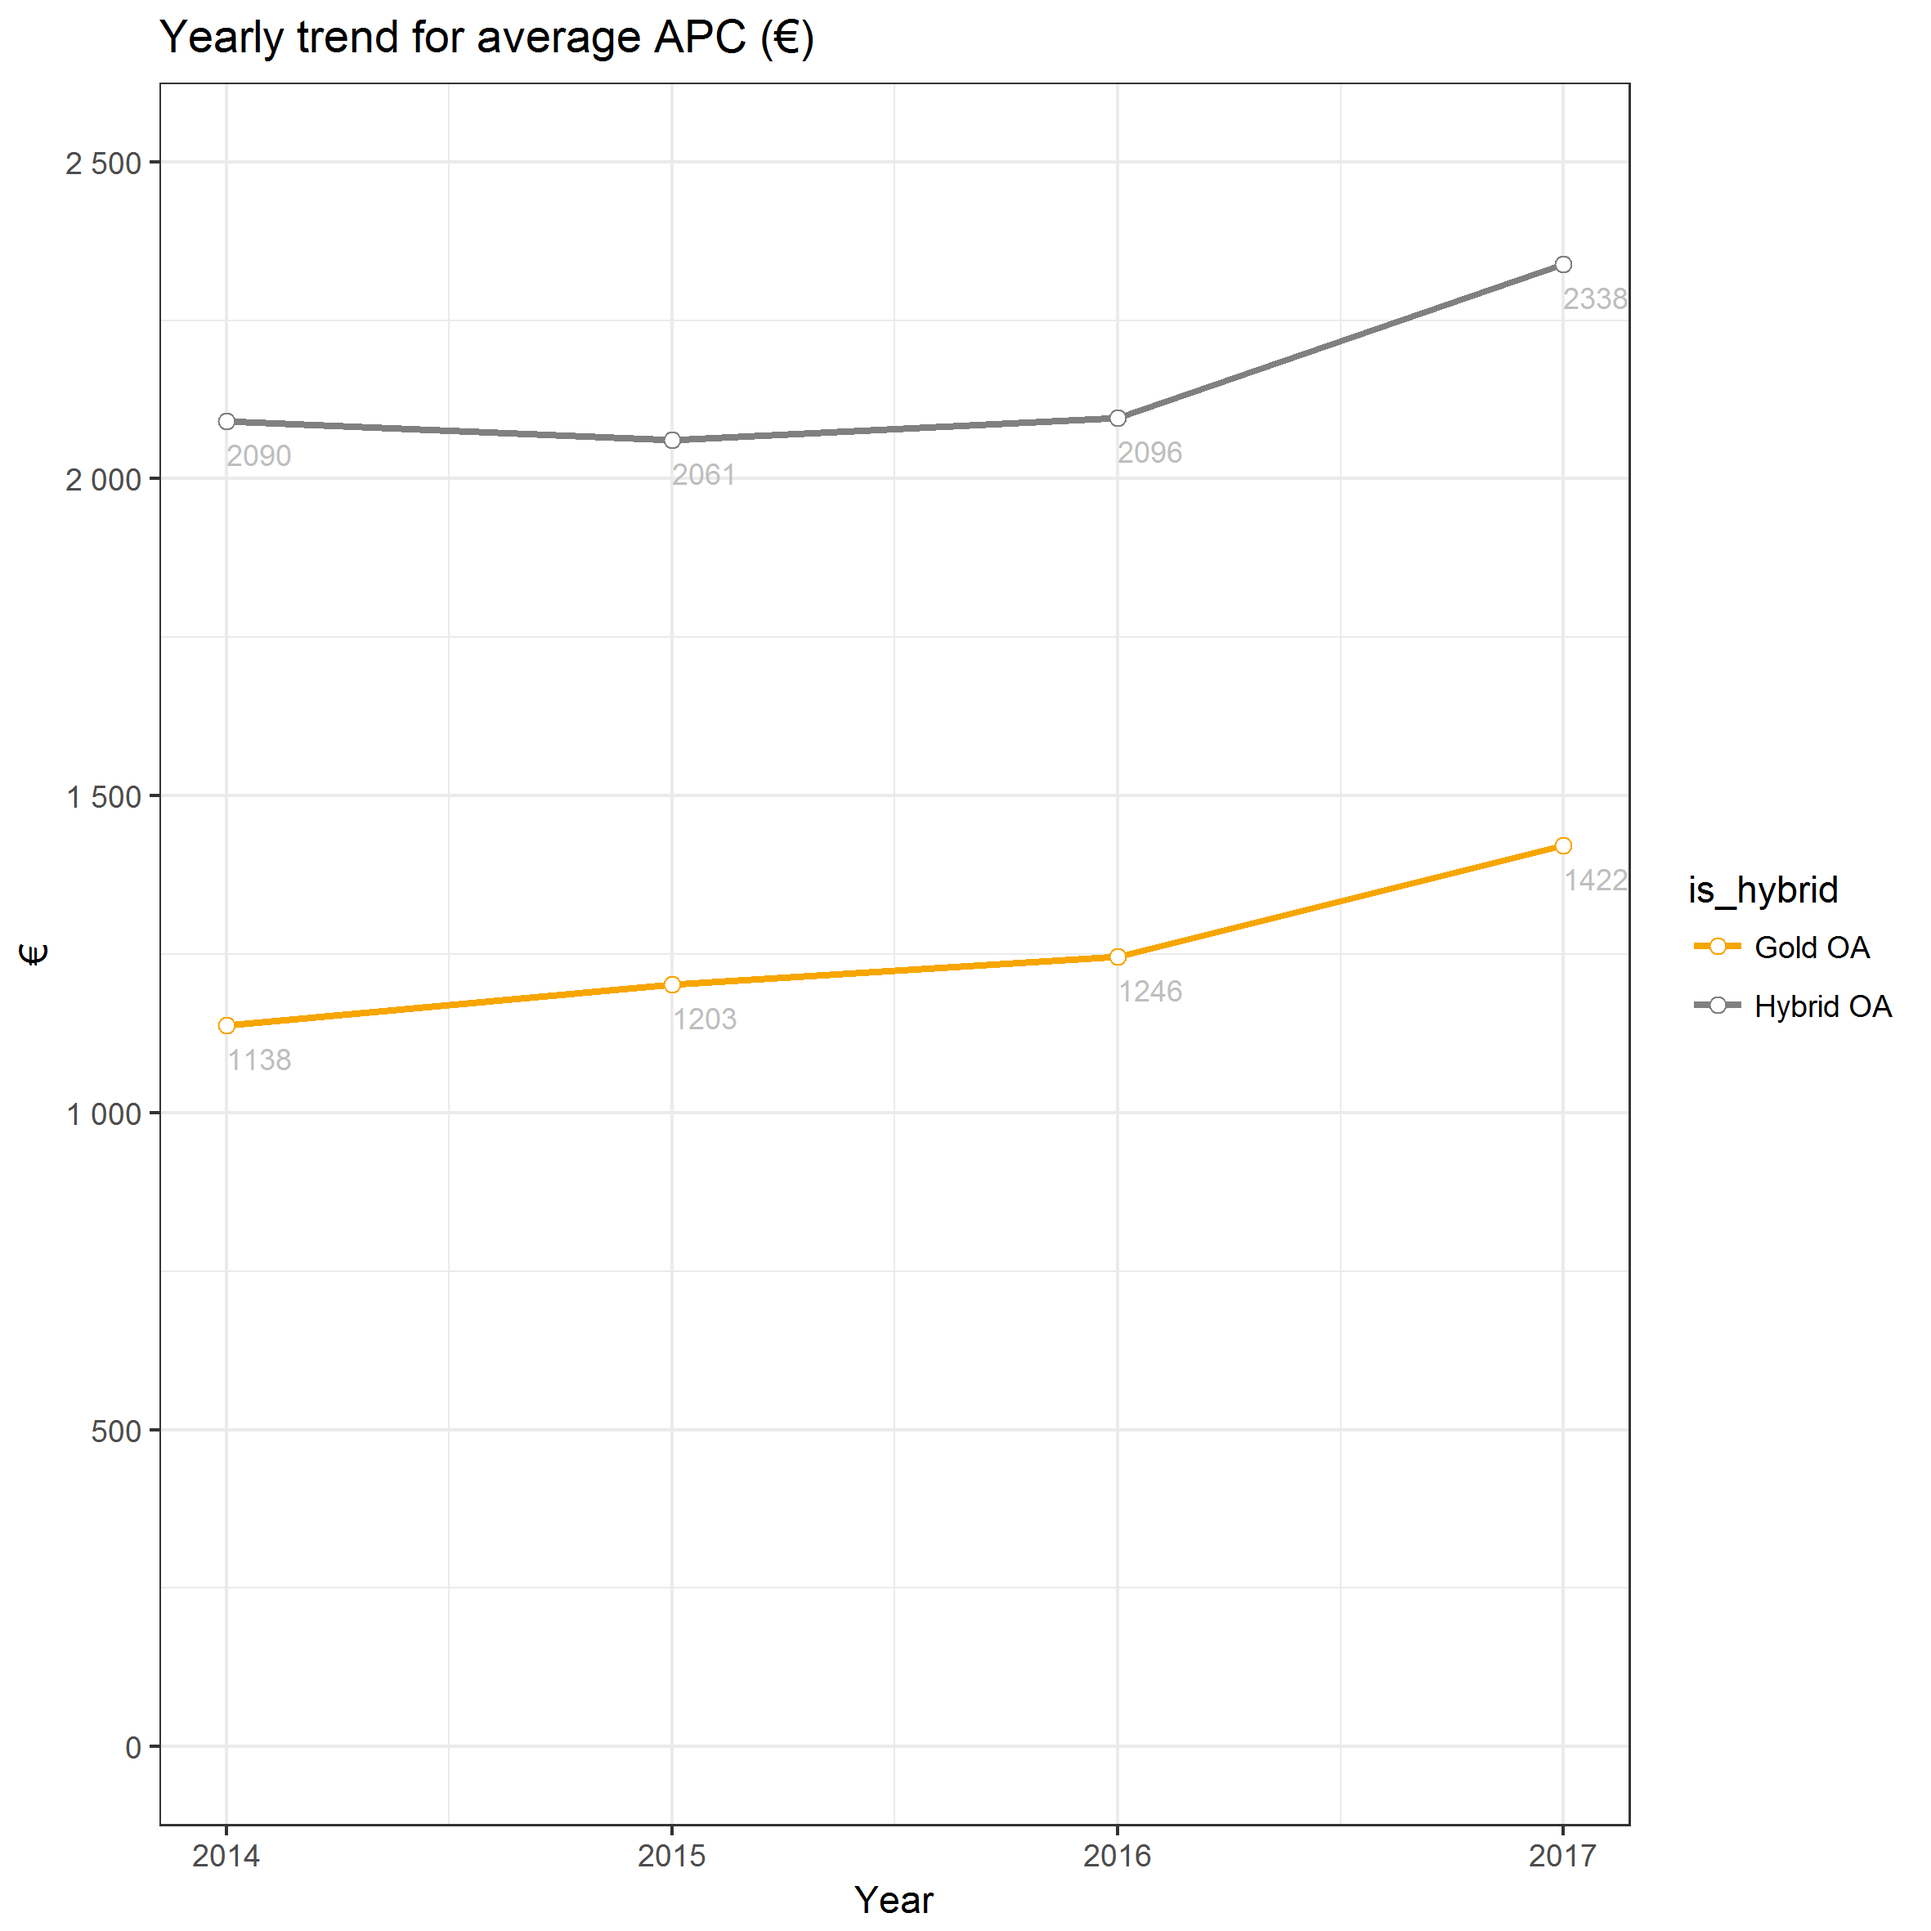
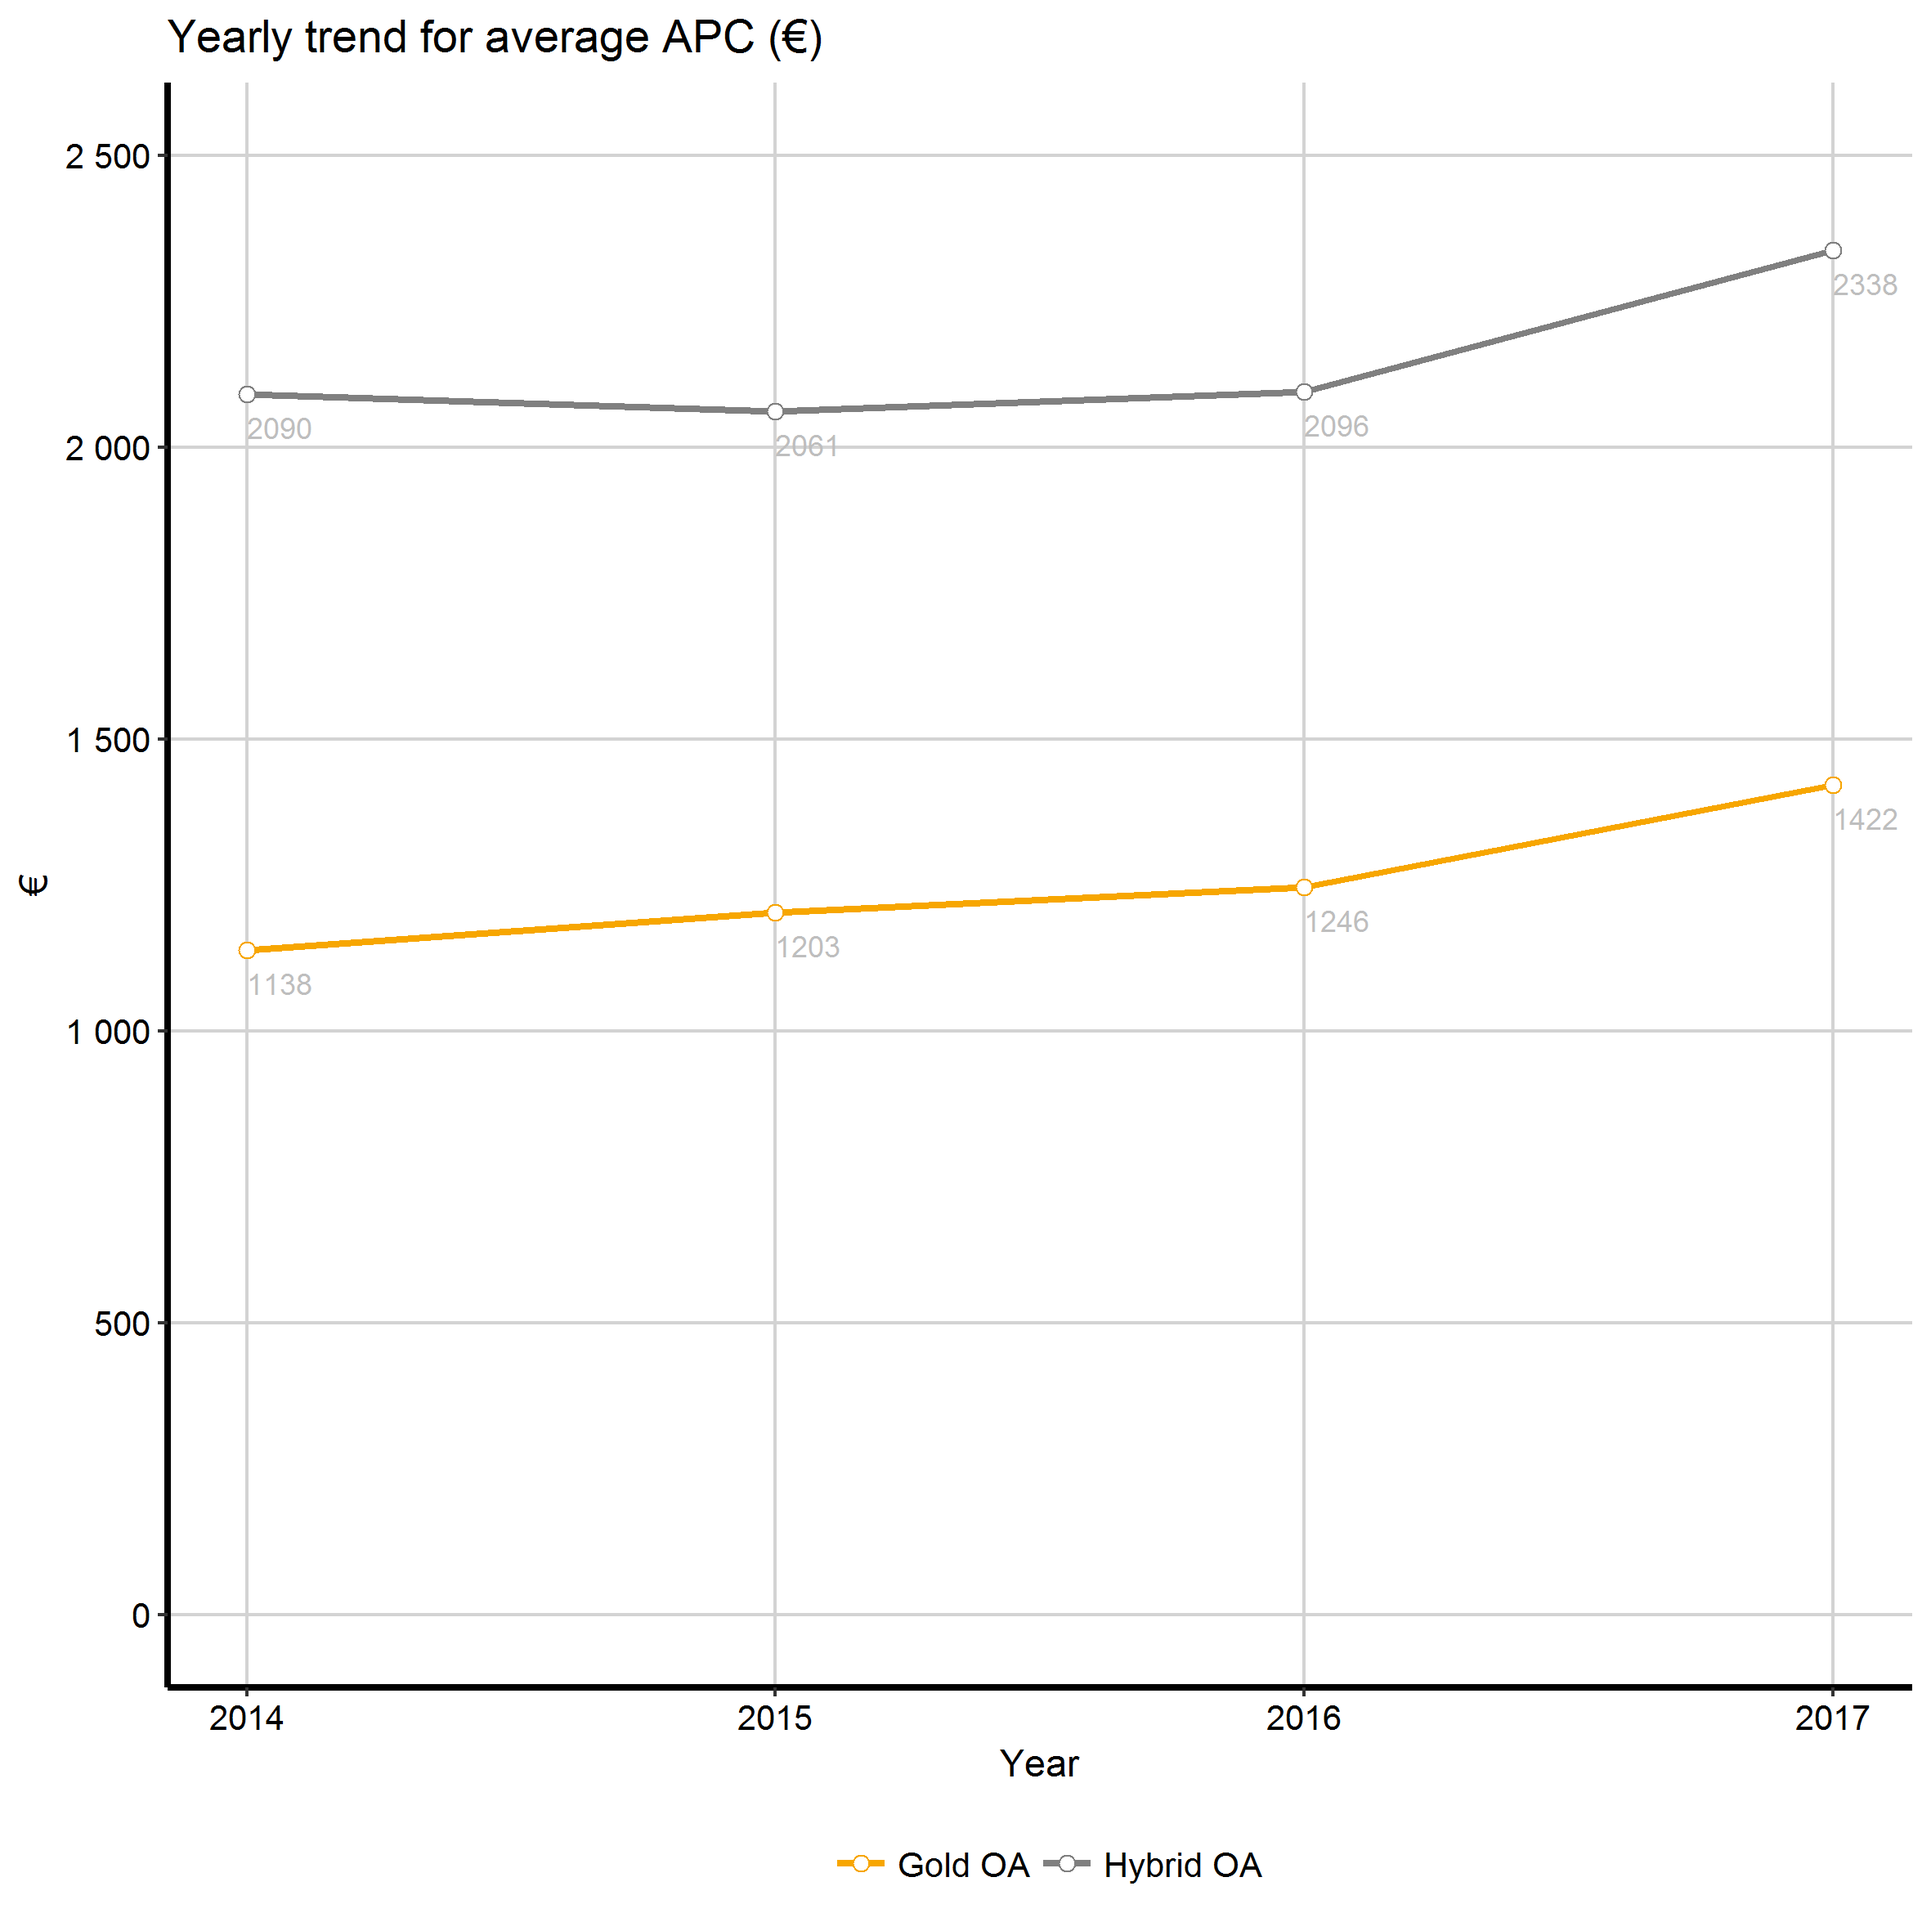
more corrections

diff --git a/statistics.md b/statistics.md
@@ -2062,83 +2062,6 @@ Average and distribution of APC"s by year, 2014 - (offset deals excluded)
 Average APC trend by year, 2014 - (offset deals excluded)
 ---------------------------------------------------------
 
-    #> List of 12
-    #>  $ legend.key      :List of 5
-    #>   ..$ fill         : chr "white"
-    #>   ..$ colour       : chr "white"
-    #>   ..$ size         : NULL
-    #>   ..$ linetype     : NULL
-    #>   ..$ inherit.blank: logi FALSE
-    #>   ..- attr(*, "class")= chr [1:2] "element_rect" "element"
-    #>  $ legend.text     :List of 11
-    #>   ..$ family       : NULL
-    #>   ..$ face         : NULL
-    #>   ..$ colour       : chr "black"
-    #>   ..$ size         : num 10
-    #>   ..$ hjust        : NULL
-    #>   ..$ vjust        : NULL
-    #>   ..$ angle        : NULL
-    #>   ..$ lineheight   : NULL
-    #>   ..$ margin       : NULL
-    #>   ..$ debug        : NULL
-    #>   ..$ inherit.blank: logi FALSE
-    #>   ..- attr(*, "class")= chr [1:2] "element_text" "element"
-    #>  $ legend.title    : list()
-    #>   ..- attr(*, "class")= chr [1:2] "element_blank" "element"
-    #>  $ legend.position : chr "bottom"
-    #>  $ legend.direction: chr "horizontal"
-    #>  $ axis.text.x     :List of 11
-    #>   ..$ family       : NULL
-    #>   ..$ face         : NULL
-    #>   ..$ colour       : chr "black"
-    #>   ..$ size         : num 10
-    #>   ..$ hjust        : NULL
-    #>   ..$ vjust        : NULL
-    #>   ..$ angle        : NULL
-    #>   ..$ lineheight   : NULL
-    #>   ..$ margin       : NULL
-    #>   ..$ debug        : NULL
-    #>   ..$ inherit.blank: logi FALSE
-    #>   ..- attr(*, "class")= chr [1:2] "element_text" "element"
-    #>  $ axis.text.y     :List of 11
-    #>   ..$ family       : NULL
-    #>   ..$ face         : NULL
-    #>   ..$ colour       : chr "black"
-    #>   ..$ size         : num 10
-    #>   ..$ hjust        : NULL
-    #>   ..$ vjust        : NULL
-    #>   ..$ angle        : NULL
-    #>   ..$ lineheight   : NULL
-    #>   ..$ margin       : NULL
-    #>   ..$ debug        : NULL
-    #>   ..$ inherit.blank: logi FALSE
-    #>   ..- attr(*, "class")= chr [1:2] "element_text" "element"
-    #>  $ axis.line       :List of 6
-    #>   ..$ colour       : chr "black"
-    #>   ..$ size         : num 1
-    #>   ..$ linetype     : NULL
-    #>   ..$ lineend      : NULL
-    #>   ..$ arrow        : logi FALSE
-    #>   ..$ inherit.blank: logi FALSE
-    #>   ..- attr(*, "class")= chr [1:2] "element_line" "element"
-    #>  $ panel.background: list()
-    #>   ..- attr(*, "class")= chr [1:2] "element_blank" "element"
-    #>  $ panel.border    : list()
-    #>   ..- attr(*, "class")= chr [1:2] "element_blank" "element"
-    #>  $ panel.grid.major:List of 6
-    #>   ..$ colour       : chr "#d3d3d3"
-    #>   ..$ size         : NULL
-    #>   ..$ linetype     : NULL
-    #>   ..$ lineend      : NULL
-    #>   ..$ arrow        : logi FALSE
-    #>   ..$ inherit.blank: logi FALSE
-    #>   ..- attr(*, "class")= chr [1:2] "element_line" "element"
-    #>  $ panel.grid.minor: list()
-    #>   ..- attr(*, "class")= chr [1:2] "element_blank" "element"
-    #>  - attr(*, "class")= chr [1:2] "theme" "gg"
-    #>  - attr(*, "complete")= logi FALSE
-    #>  - attr(*, "validate")= logi TRUE
-
 ![](figure/apc_avg_trend.png)
 
 Acknowledgement
